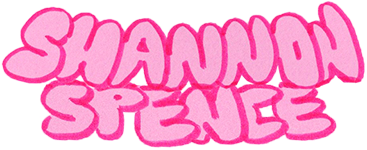
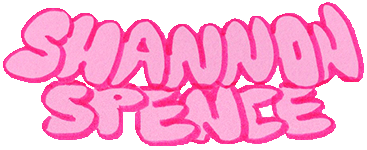
Style changes

diff --git a/style2.css b/style2.css
@@ -37,18 +37,25 @@ html {
 
 body {
   font-family: 'Shannon', Arial, sans-serif;
-  background:
-    radial-gradient(
-      circle at center,
-      #ffe3f4 0%,
-      #ffb3dd 35%,
-      #f83288 65%,
-      #8a9ce0 100%
-    );
-  background-attachment: fixed;
   color: #2b2140;
-}
 
+  background-color: #3959ac;
+
+  background-image:
+    url('images2/flags.png'),
+    radial-gradient(
+  ellipse at center,
+  #fff3d6 0%,
+  #f1dce5 25%,
+  #a99bcb 55%,
+  #3959ac 100%
+);
+
+  background-repeat: no-repeat, no-repeat;
+  background-position: center top, center center;
+  background-size: 100% auto, cover;
+  background-attachment: fixed, fixed;
+}
 
 /* =========================================================
    SPARKLE LAYER / STACKING
@@ -109,6 +116,10 @@ footer {
   height: auto;
   display: block;
   margin: 0 auto;
+
+  filter:
+  drop-shadow(0 0 8px rgba(57, 89, 172, 0.85))
+  drop-shadow(0 0 22px rgba(57, 89, 172, 0.45));
 }
 
 
@@ -186,8 +197,8 @@ footer {
   background:
     radial-gradient(
       circle at center,
-      rgba(255, 243, 252, 0.2),
-      rgba(248, 50, 136, 0.35)
+      rgba(255, 243, 214, 0.10),
+      rgba(255, 243, 214, 0.30)
     );
   pointer-events: none;
 }
@@ -648,6 +659,7 @@ footer {
 }
 
 
+
 /* =========================================================
    FOOTER
    ========================================================= */
@@ -657,28 +669,71 @@ footer {
   padding: 30px 10px 50px;
 }
 
+/* Icon layout */
+
 .footer-links {
-  margin-bottom: 15px;
+  display: flex;
+  flex-wrap: wrap;
+  justify-content: center;
+  gap: 10px;
+
+  width: fit-content;
+  max-width: 100%;
+  margin: 0 auto 25px;
+  padding: 18px 20px 18px;
+
+  background: #ffe3f4;
+  border: none;
+  border-radius: 999px;
+
+  box-shadow: 0 6px 0 rgba(57, 89, 172, 0.7);
+  box-sizing: border-box;
 }
 
-footer a img {
-  width: 50px;
-  margin: 0 10px;
-  border-radius: 10%;
-}
-
-footer a {
+.footer-links a {
+  display: flex;
+  flex-direction: column;
+  align-items: center;
+  justify-content: flex-start;
+  width: 90px;
   text-decoration: none;
   border-bottom: none;
 }
 
+/* Icons */
+
 .footer-links a img {
+  width: 50px;
+  height: 50px;
+  object-fit: contain;
+  border-radius: 10%;
   transition: transform 0.2s ease, box-shadow 0.2s ease;
 }
 
-.footer-links a img:hover {
+.footer-links a:hover img,
+.footer-links a:focus-visible img {
   transform: translateY(-3px) scale(1.05);
 }
+
+/* Icon labels */
+
+.footer-links a span {
+  font-family: Arial, sans-serif;
+  font-size: 0.85rem;
+  color: #3959ac;
+  margin-top: 8px;
+  opacity: 1;
+  transition: color 0.2s ease;
+}
+
+/* Change label color on hover */
+
+.footer-links a:hover span,
+.footer-links a:focus-visible span {
+  color: #f83288;
+}
+
+/* Back to top */
 
 #back-to-top {
   padding: 8px 16px;
@@ -696,6 +751,8 @@ footer a {
   transform: translateY(2px);
   box-shadow: 0 2px 0 rgba(57, 89, 172, 0.9);
 }
+
+/* Copyright */
 
 .visitor-counter {
   font-size: 0.85rem;

diff --git a/_layouts/default.html b/_layouts/default.html
@@ -8,6 +8,7 @@
 
   <link rel="icon" type="image/png" href="{{ "/favicon.png" | relative_url }}">
   <link rel="stylesheet" href="{{ "/style2.css?v=3" | relative_url }}" />
+  <link rel="preload" href="{{ '/images2/flags.png' | relative_url }}" as="image">
 </head>
 <body>
 
@@ -74,37 +75,49 @@
   </div>
 
   <!-- FOOTER -->
-  <footer>
-    <div class="footer-links">
-      <a href="https://instagram.com/shan.zine" target="_blank">
-        <img src="{{ "/images2/ig2.png" | relative_url }}" alt="Instagram">
-      </a>
-      <a href="https://patreon.com/shannonspence">
-        <img src="{{ "/images2/patreon.png" | relative_url }}" alt="Patreon">
-      </a>
-      <a href="https://shanzine.substack.com">
-        <img src="{{ "/images2/substack.png" | relative_url }}" alt="Substack">
-      </a>
-      <a href="https://shanzine.itch.io">
-        <img src="{{ "/images2/itch.png" | relative_url }}" alt="Itch.io">
-      </a>
-      <a href="https://bsky.app/profile/shanzine.bsky.social" target="_blank">
-        <img src="{{ "/images2/blusky.png" | relative_url }}" alt="Bluesky">
-      </a>
-      <a href="mailto:me@shannon-spence.com">
-        <img src="{{ "/images2/mail.png" | relative_url }}" alt="Email">
-      </a>
-      <a href="https://comixaccountability.club">
-        <img src="{{ "/images2/cac2.png" | relative_url }}" alt="Comix Accountability Club">
-      </a>
-    </div>
 
-    <button id="back-to-top" type="button">Back to top &uarr;</button>
+<!-- FOOTER -->
+<footer>
 
-    <div class="visitor-counter">
-      <span>All images © Shannon Spence 2026</span>
-    </div>
-  </footer>
+  <div class="footer-links">
+    <a href="https://instagram.com/shan.zine" target="_blank">
+      <img src="{{ "/images2/ig2.png" | relative_url }}" alt="Instagram">
+      <span>Instagram</span>
+    </a>
+
+    <a href="https://patreon.com/shannonspence">
+      <img src="{{ "/images2/patreon.png" | relative_url }}" alt="Patreon">
+      <span>Patreon</span>
+    </a>
+
+    <a href="https://shanzine.substack.com">
+      <img src="{{ "/images2/substack.png" | relative_url }}" alt="Substack">
+      <span>Substack</span>
+    </a>
+
+    <a href="https://shanzine.itch.io">
+      <img src="{{ "/images2/itch.png" | relative_url }}" alt="Itch.io">
+      <span>Itch.io</span>
+    </a>
+
+    <a href="mailto:me@shannon-spence.com">
+      <img src="{{ "/images2/mail.png" | relative_url }}" alt="Email">
+      <span>Email</span>
+    </a>
+
+    <a href="https://comixaccountability.club">
+      <img src="{{ "/images2/cac2.png" | relative_url }}" alt="Comix Accountability Club">
+      <span>Comix Club</span>
+    </a>
+  </div>
+
+  <button id="back-to-top" type="button">Back to top &uarr;</button>
+
+  <div class="visitor-counter">
+    <span>All images © Shannon Spence 2026</span>
+  </div>
+</footer>
+
 
 <script src="/assets/js/main.js?v=2"></script>
 

diff --git a/index.html b/index.html
@@ -1,6 +1,6 @@
 ---
 layout: default
-banner: /images2/welcome.webp
+banner: /images2/speedrunner1.webp
 title: Shannon Spence – Cartoonist
 description: Shannon Spence is a cartoonist making comics, zines, and handmade publications based in Brooklyn, NY.
 ---

diff --git a/otherart.html b/otherart.html
@@ -1,7 +1,7 @@
 ---
 layout: default
 title: Artworks – Shannon Spence
-banner: /images2/inthewoods.webp
+banner: /images2/prayer.webp
 description: Illustration, paintings, performances, and other artwork by Shannon Spence.
 ---
 
